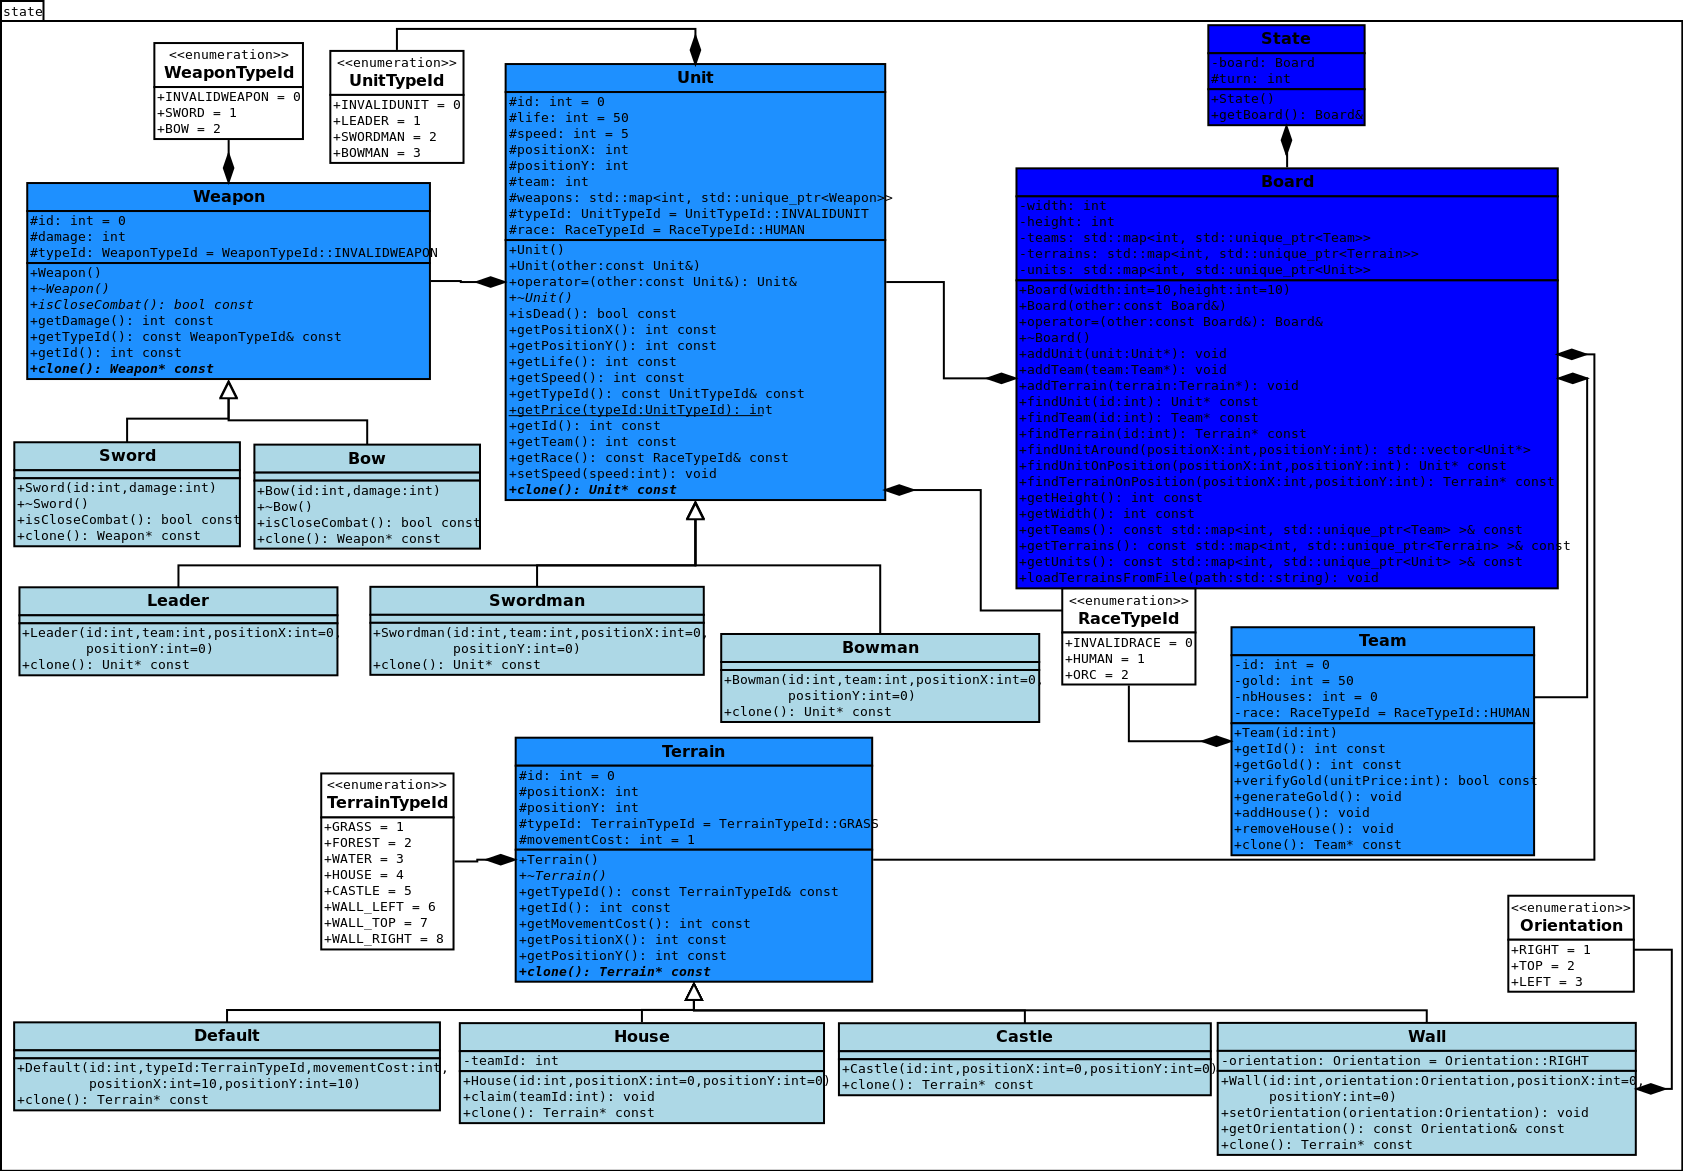
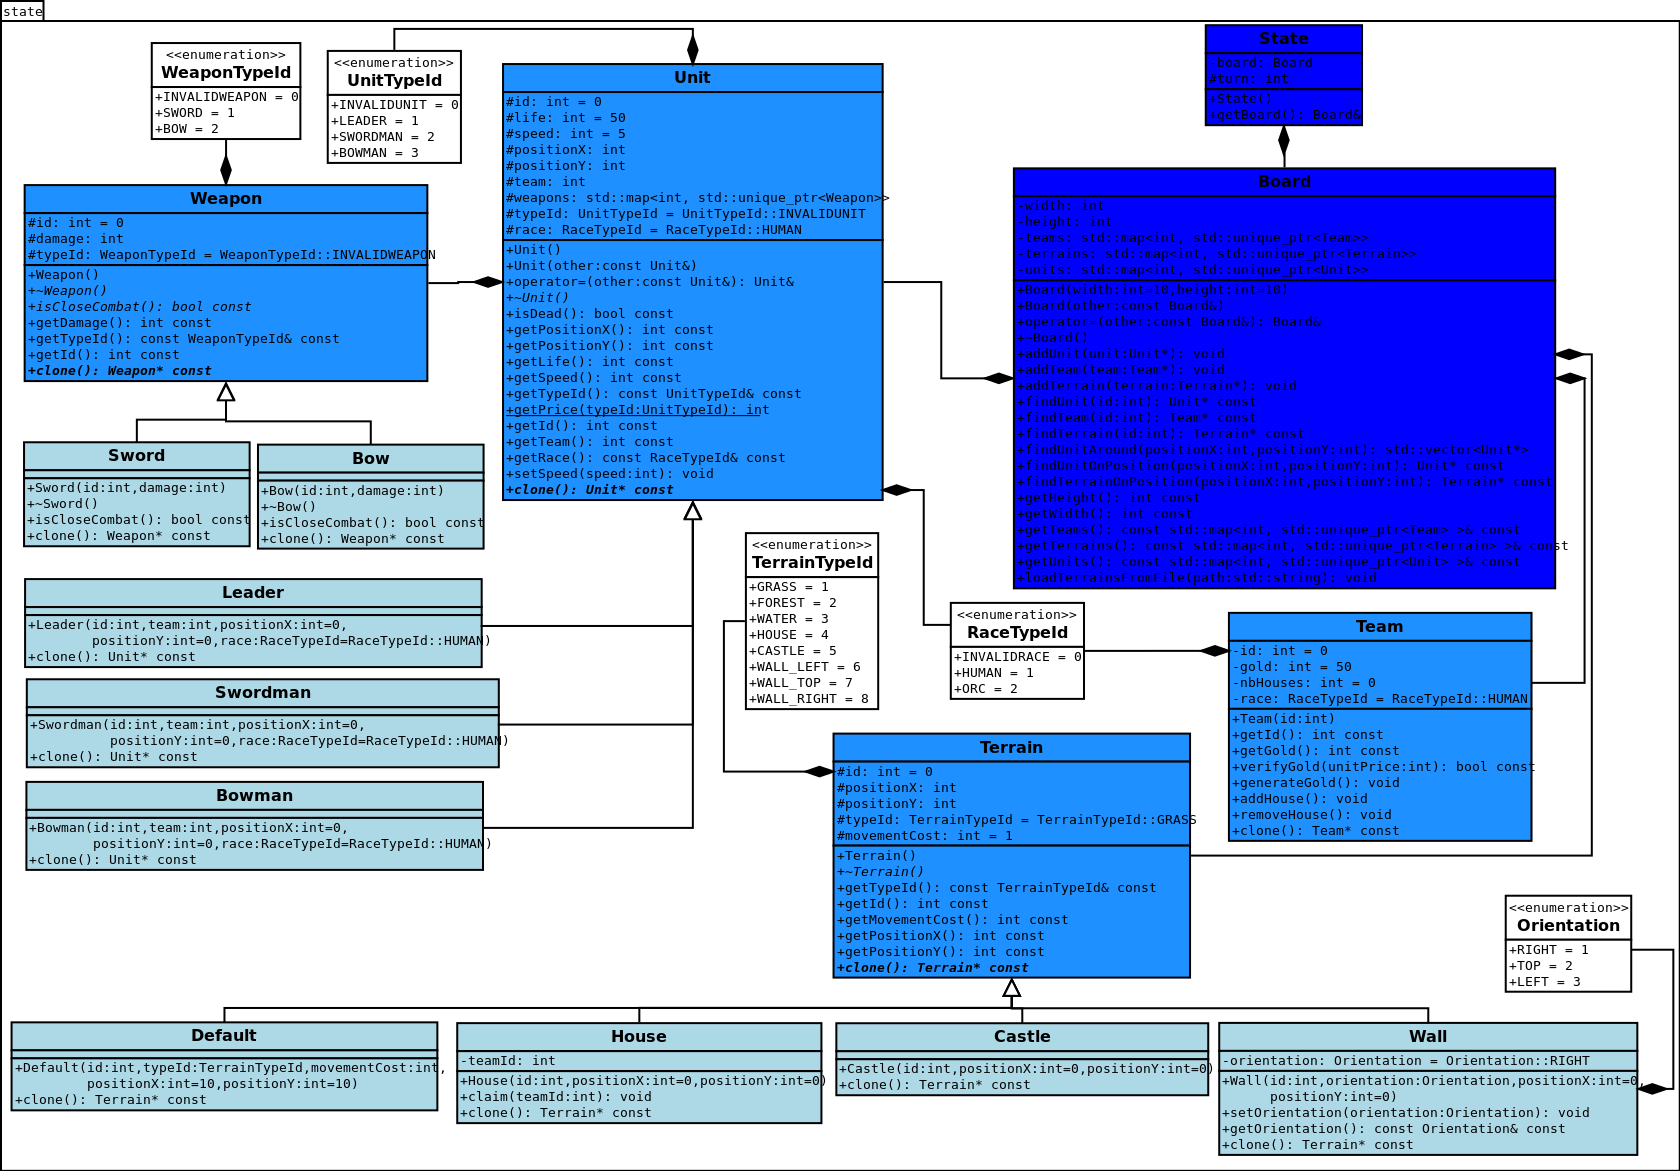
Add race attribute to units

diff --git a/src/shared/state/Unit.cpp b/src/shared/state/Unit.cpp
@@ -1,7 +1,7 @@
 #include "Unit.h"
 
 namespace state {
-
+    
     Unit::Unit() {
 
     }
@@ -13,7 +13,8 @@ namespace state {
         positionX = unit.positionX;
         positionY = unit.positionY;
         team = unit.team;
-        typeId = unit.typeId;      
+        typeId = unit.typeId;    
+        race = unit.race;
         
         for(auto& w : unit.weapons) {
             weapons.insert(std::make_pair(w.first, std::unique_ptr<Weapon>(w.second->clone())));
@@ -29,7 +30,8 @@ namespace state {
         positionX = unit.positionX;
         positionY = unit.positionY;
         team = unit.team;
-        typeId = unit.typeId;      
+        typeId = unit.typeId;
+        race = unit.race;
         
         for(auto& w : unit.weapons) {
             weapons.insert(std::make_pair(w.first, std::unique_ptr<Weapon>(w.second->clone())));
@@ -130,6 +132,15 @@ namespace state {
     void Unit::setWeapons(const std::map<int, std::unique_ptr<Weapon> >& weapons) {
         
     }
+    
+    const RaceTypeId& Unit::getRace() const {
+        return race;
+    }
+
+    void Unit::setRace(RaceTypeId race) {
+        this->race = race;
+    }
+
 
     Unit::~Unit() {
         weapons.clear();

diff --git a/src/client/state.cpp b/src/client/state.cpp
@@ -1,4 +1,5 @@
 #include "state.hpp"
+#include "state/RaceTypeId.h"
 
 namespace state {
     
@@ -78,7 +79,7 @@ namespace state {
         
         std::cout << "  Ajout d'une unité de type SWORDMAN au jeu" << std::endl;
         
-        Unit* unit = new Swordman(1, 1, 1);
+        Unit* unit = new Swordman(1, 1, 1, 1, RaceTypeId::HUMAN);
         state->getBoard().addUnit(unit);
         
         unitSize = state->getBoard().getUnits().size();
@@ -111,7 +112,7 @@ namespace state {
         
         std::cout << "  Ajout d'une unité de type LEADER au jeu" << std::endl;
         
-        unit = new Leader(2, 1, 1);
+        unit = new Leader(2, 1, 1, 1, RaceTypeId::HUMAN);
         state->getBoard().addUnit(unit);
         
         unitSize = state->getBoard().getUnits().size();

diff --git a/src/shared/state/Swordman.h b/src/shared/state/Swordman.h
@@ -7,6 +7,7 @@ namespace state {
   class Unit;
 }
 
+#include "RaceTypeId.h"
 #include "Unit.h"
 
 namespace state {
@@ -15,7 +16,7 @@ namespace state {
   class Swordman : public state::Unit {
     // Operations
   public:
-    Swordman (int id, int team, int positionX = 0, int positionY = 0);
+    Swordman (int id, int team, int positionX = 0, int positionY = 0, RaceTypeId race = RaceTypeId::HUMAN);
     Unit* clone () const;
     // Setters and Getters
   };

diff --git a/src/shared/state/Bowman.h b/src/shared/state/Bowman.h
@@ -7,6 +7,7 @@ namespace state {
   class Unit;
 }
 
+#include "RaceTypeId.h"
 #include "Unit.h"
 
 namespace state {
@@ -15,7 +16,7 @@ namespace state {
   class Bowman : public state::Unit {
     // Operations
   public:
-    Bowman (int id, int team, int positionX = 0, int positionY = 0);
+    Bowman (int id, int team, int positionX = 0, int positionY = 0, RaceTypeId race = RaceTypeId::HUMAN);
     Unit* clone () const;
     // Setters and Getters
   };

diff --git a/src/shared/state/Leader.h b/src/shared/state/Leader.h
@@ -7,6 +7,7 @@ namespace state {
   class Unit;
 }
 
+#include "RaceTypeId.h"
 #include "Unit.h"
 
 namespace state {
@@ -15,7 +16,7 @@ namespace state {
   class Leader : public state::Unit {
     // Operations
   public:
-    Leader (int id, int team, int positionX = 0, int positionY = 0);
+    Leader (int id, int team, int positionX = 0, int positionY = 0, RaceTypeId race = RaceTypeId::HUMAN);
     Unit* clone () const;
     // Setters and Getters
   };

diff --git a/src/shared/state/Swordman.cpp b/src/shared/state/Swordman.cpp
@@ -3,11 +3,12 @@
 
 namespace state {
 
-    Swordman::Swordman(int id, int team, int positionX, int positionY) {
+    Swordman::Swordman(int id, int team, int positionX, int positionY, RaceTypeId race) {
         this->id = id;
         this->team = team;
         this->positionX = positionX;
         this->positionY = positionY;
+        this->race = race;
         
         life = 60;
         typeId = UnitTypeId::SWORDMAN;

diff --git a/src/shared/state/Leader.cpp b/src/shared/state/Leader.cpp
@@ -4,11 +4,12 @@
 
 namespace state {
 
-    Leader::Leader(int id, int team, int positionX, int positionY) {
+    Leader::Leader(int id, int team, int positionX, int positionY, RaceTypeId race) {
         this->id = id;
         this->team = team;
         this->positionX = positionX;
         this->positionY = positionY;
+        this->race = race;
         
         life = 100;
         typeId = UnitTypeId::LEADER;

diff --git a/src/shared/state/Bowman.cpp b/src/shared/state/Bowman.cpp
@@ -4,11 +4,12 @@
 
 namespace state {
 
-    Bowman::Bowman(int id, int team, int positionX, int positionY) {
+    Bowman::Bowman(int id, int team, int positionX, int positionY, RaceTypeId race) {
         this->id = id;
         this->team = team;
         this->positionX = positionX;
         this->positionY = positionY;
+        this->race = race;
         
         life = 40;
         typeId = UnitTypeId::BOWMAN;
